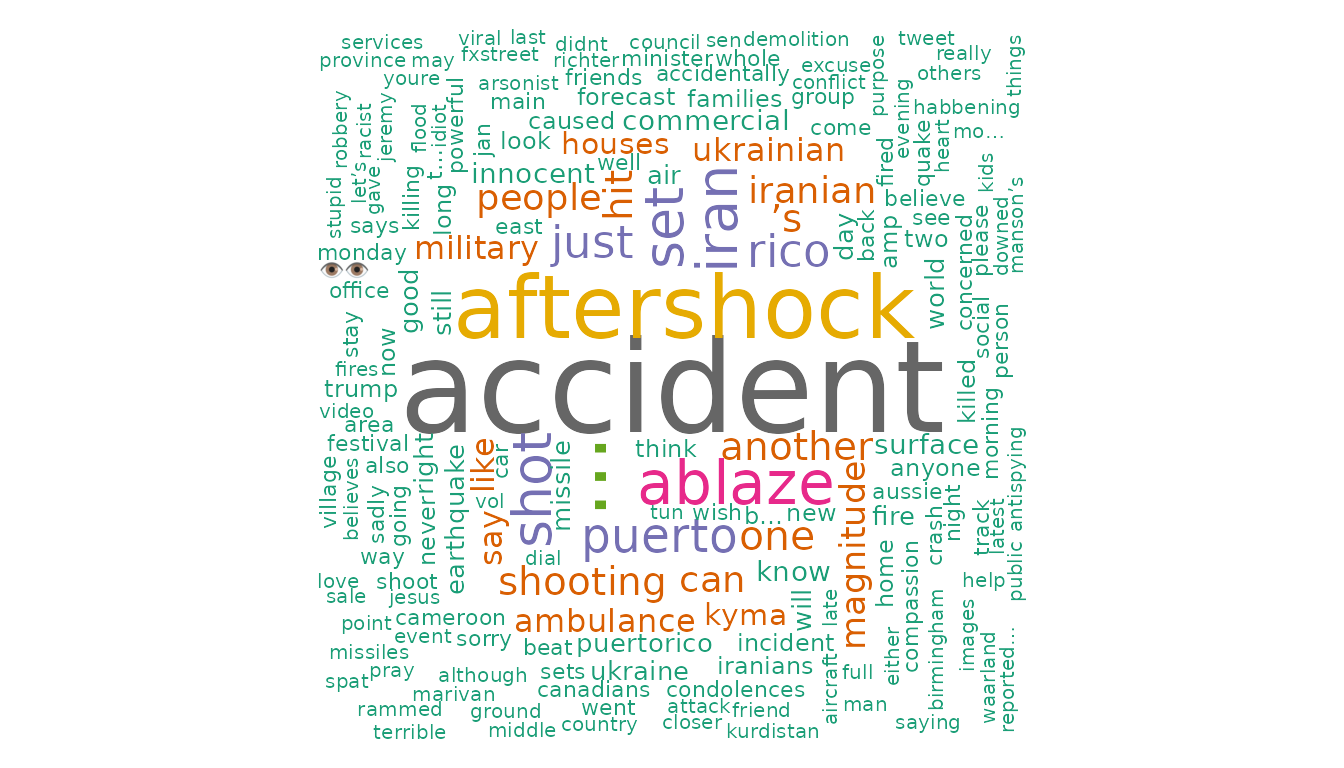
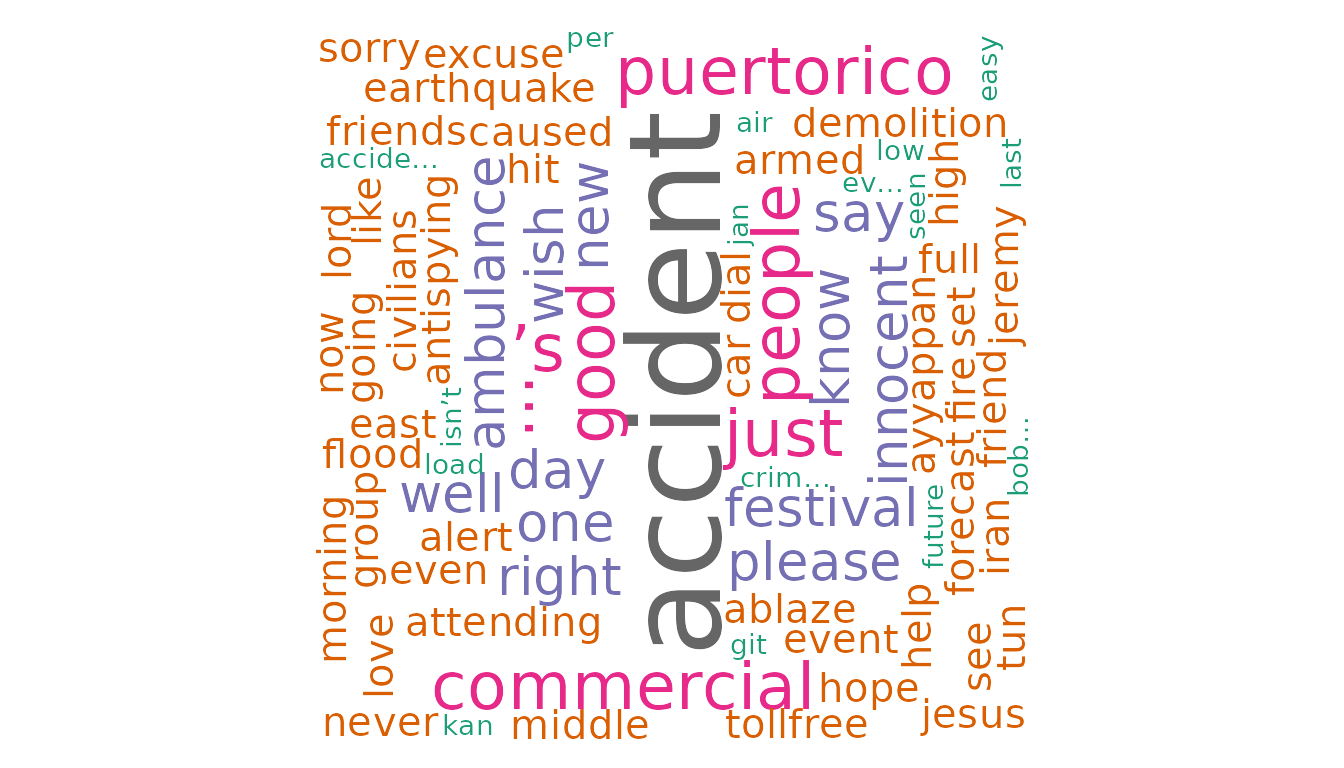
Deploying to gh-pages from @ UBC-MDS/sentimentanalyzerR@71e8794db295795cbcfdd2b4ab7be9967232119b 🚀

Changed region(s): [[0.2188, 0.0312, 0.7812, 0.9688]]

diff --git a/articles/sentimentanalyzerR.html b/articles/sentimentanalyzerR.html
@@ -188,7 +188,7 @@ words in the entire corpus. This gives a deeper insight into the
 specific words in the corpus that contribute towards the sentiment.</p>
 <div class="sourceCode" id="cb6"><pre class="downlit sourceCode r">
 <code class="sourceCode R"><span><span class="va">wordcloud_plot</span> <span class="op">&lt;-</span> <span class="fu"><a href="../reference/generate_wordcloud.html">generate_wordcloud</a></span><span class="op">(</span><span class="va">df</span>, <span class="st">"text"</span><span class="op">)</span></span></code></pre></div>
-<p><img src="sentimentanalyzerR_files/figure-html/wordcloud-plot-1.png" width="672"></p>
+<p><img src="sentimentanalyzerR_files/figure-html/wordcloud-plot-1.png" width="672"><img src="sentimentanalyzerR_files/figure-html/wordcloud-plot-2.png" width="672"><img src="sentimentanalyzerR_files/figure-html/wordcloud-plot-3.png" width="672"></p>
 </div>
 </div>
   </main><aside class="col-md-3"><nav id="toc"><h2>On this page</h2>
